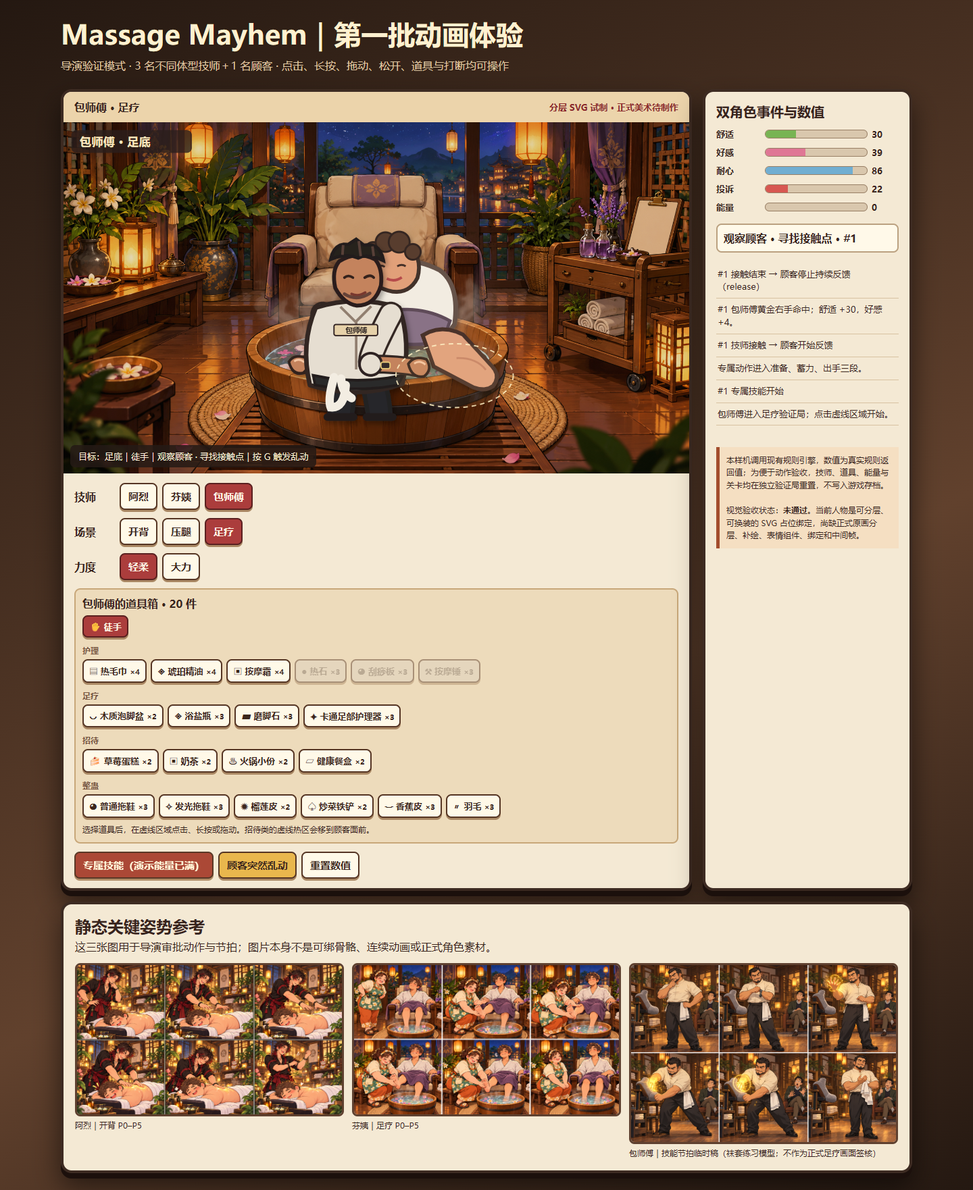
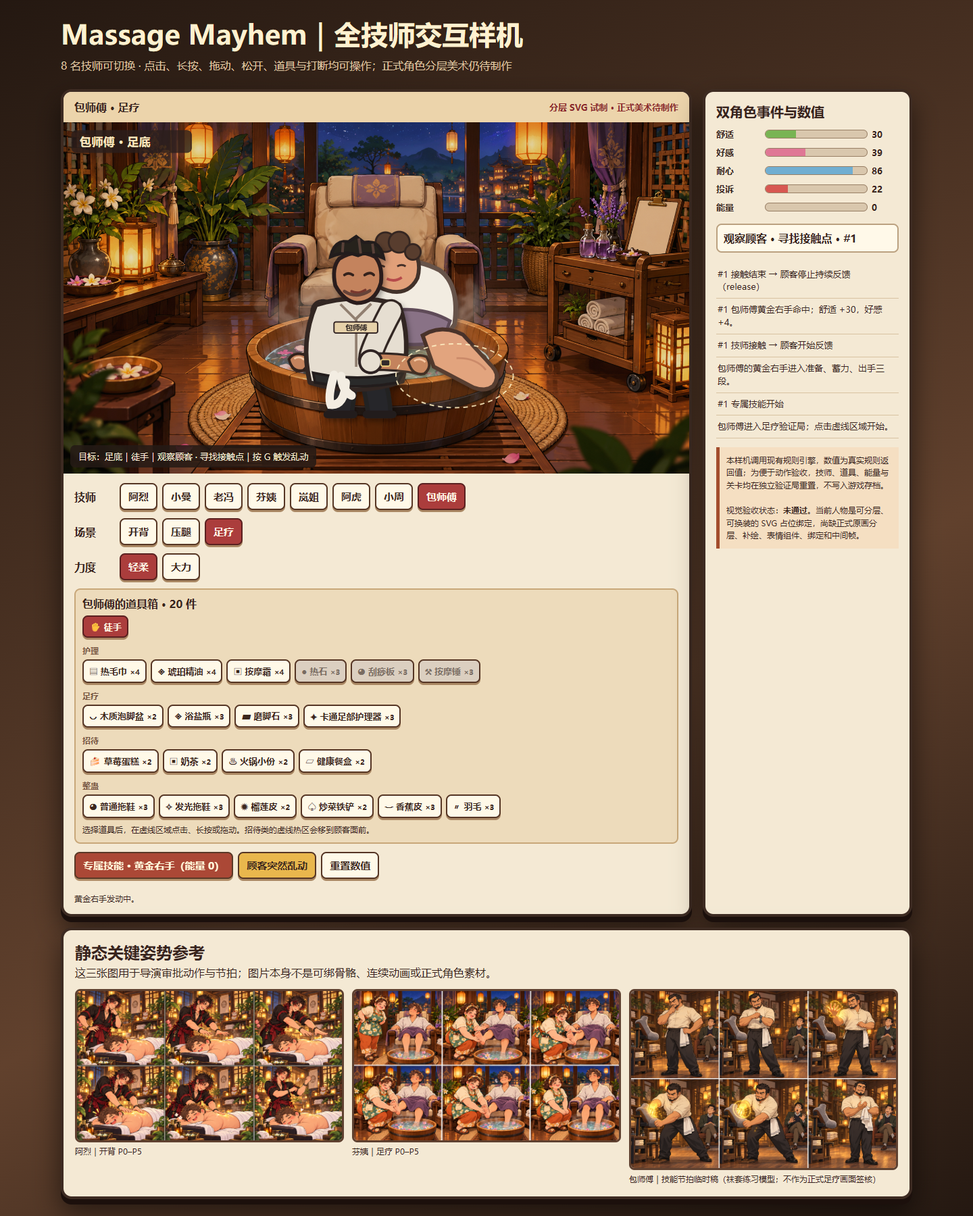
Expose eight technicians and explain blocked animation controls

Changed region(s): [[0.0625, 0.0, 0.9375, 0.9989]]

diff --git a/animation-experience/animation-bundle.js b/animation-experience/animation-bundle.js
@@ -12,7 +12,8 @@ const { itemAvailability, itemTuning, performItem } = __require("animation-exper
 const $ = selector => document.querySelector(selector);
 const stage = $('#stage');
 const visual = new VisualStage(stage);
-const names = { charming_m: '阿烈', aunt: '芬姨', bao_master: '包师傅', back: '开背', legs: '压腿', feet: '足疗' };
+const names = { charming_m: '阿烈', charming_f: '小曼', uncle: '老冯', aunt: '芬姨', gentle: '岚姐', power: '阿虎', joker: '小周', bao_master: '包师傅', back: '开背', legs: '压腿', feet: '足疗' };
+const skills = { charming_m: '飞吻', charming_f: '爱心手势', uncle: '蓄力推拿', aunt: '递美食', gentle: '精准按压', power: '重压足疗', joker: '整蛊石化', bao_master: '黄金右手' };
 const phases = { approach: '入场 · 步态与转身', observe: '观察顾客 · 寻找接触点', prepare: '准备 · 转身和重心调整', precontact: '接触前 · 手掌悬停', contact: '接触 · 掌心落点', hold: '持续接触 · 跟随玩家', release: '松手 · 顾客停止持续反馈', recover: '回位 · 重找落点', toolTake: '拿取道具 · 握持切换', toolReturn: '工具归位', interrupted: '打断 · 躲避并重新观察', signaturePrep: '专属技能 · 准备', signatureCharge: '专属技能 · 蓄力', signaturePose: '专属技能 · 出手' };
 const labels = { comfort: '舒适', affection: '好感', patience: '耐心', complaint: '投诉', energy: '能量' };
 const levels = [{ level: 1, comfortGoal: 95, patience: 90, maxActions: 50, servicePool: ['gentle', 'strong', 'food', 'prank'], scenePool: ['back', 'legs', 'feet'] }];
@@ -25,6 +26,7 @@ function log(message) {
   $('#log').prepend(li);
   while ($('#log').children.length > 24) $('#log').lastElementChild.remove();
 }
+function feedback(message) { $('#feedback').textContent = message; }
 function point(event) {
   const rect = stage.getBoundingClientRect();
   return { x: (event.clientX - rect.left) * 960 / rect.width, y: (event.clientY - rect.top) * 540 / rect.height };
@@ -39,7 +41,7 @@ function renderInventory() {
   $('#inventory').innerHTML = `<div class="propgrid"><button data-id="hand" class="active">✋ 徒手</button></div>` + groups.map(group => {
     const groupItems = owned.filter(item => item.group === group);
     if (!groupItems.length) return '';
-    return `<div class="propgroup"><strong>${group}</strong><div class="propgrid">${groupItems.map(item => { const available = itemAvailability(battle, item.id, 999); const remaining = Math.max(0, itemTuning[item.id].stock - (battle.itemUses?.[item.id] || 0)); return `<button data-id="${item.id}" title="${item.gesture}｜${item.scenes.map(key => names[key]).join('、')}｜${available.reason || `本局剩余 ${remaining} 次`}" class="${item.scenes.includes(scene) ? '' : 'offscene'}" ${available.ok ? '' : 'disabled'}>${item.icon} ${item.name} <small>×${remaining}</small></button>`; }).join('')}</div></div>`;
+    return `<div class="propgroup"><strong>${group}</strong><div class="propgrid">${groupItems.map(item => { const available = itemAvailability(battle, item.id, 999); const remaining = Math.max(0, itemTuning[item.id].stock - (battle.itemUses?.[item.id] || 0)); return `<button data-id="${item.id}" title="${item.gesture}｜${item.scenes.map(key => names[key]).join('、')}｜${available.reason || `本局剩余 ${remaining} 次`}" class="${item.scenes.includes(scene) ? '' : 'offscene'}">${item.icon} ${item.name} <small>×${remaining}</small></button>`; }).join('')}</div></div>`;
   }).join('');
   selectGroup('tool', tool);
   $('#toolTip').textContent = tool === 'hand' ? '选择道具后，在虚线区域点击、长按或拖动。招待类的虚线热区会移到顾客面前。' : `${itemById[tool].name}：${itemById[tool].gesture}；适用${itemById[tool].scenes.map(key => names[key]).join('、')}。`;
@@ -52,7 +54,7 @@ function updateMetrics() {
     el.querySelector('output').textContent = battle[key];
     el.querySelector('label').textContent = label;
   }
-  $('#signature').disabled = director.phase !== 'observe' || battle.status !== 'playing' || director.toolHeld || (cast === 'bao_master' && scene !== 'feet');
+  $('#signature').textContent = `专属技能 · ${skills[cast]}（能量 ${battle.energy}）`;
 }
 function reset(clearLog = false) {
   if (pointerId !== null && stage.hasPointerCapture(pointerId)) stage.releasePointerCapture(pointerId);
@@ -68,10 +70,10 @@ function reset(clearLog = false) {
   tool = 'hand'; selectGroup('tool', tool);
   visual.setCast(cast, scene);
   renderInventory();
-  director.startApproach();
   $('#castTitle').textContent = `${names[cast]} · ${names[scene]}`;
   if (clearLog) $('#log').replaceChildren();
   log(`${names[cast]}进入${names[scene]}验证局；点击虚线区域开始。`);
+  feedback(`${names[cast]}已就位。点击画面虚线热区；道具会先拿取，再点击热区使用。`);
   updateMetrics();
 }
 function handleEvent(event) {
@@ -94,9 +96,9 @@ function handleEvent(event) {
     case 'skillImpact': {
       if (battle.status !== 'playing') break;
       const before = battle;
-      if (cast === 'aunt') battle = performService(battle, levels, 'food', 90, 999);
+      if (cast === 'aunt') battle = { ...performService(battle, levels, 'food', 90, 999), energy: 0 };
       else battle = useSkill(battle);
-      log(`#${event.interactionId} ${cast === 'aunt' ? '芬姨递美食' : cast === 'charming_m' ? '阿烈飞吻' : '包师傅黄金右手'}命中；舒适 ${battle.comfort - before.comfort >= 0 ? '+' : ''}${battle.comfort - before.comfort}，好感 ${battle.affection - before.affection >= 0 ? '+' : ''}${battle.affection - before.affection}。`);
+      log(`#${event.interactionId} ${names[cast]}${skills[cast]}命中；舒适 ${battle.comfort - before.comfort >= 0 ? '+' : ''}${battle.comfort - before.comfort}，好感 ${battle.affection - before.affection >= 0 ? '+' : ''}${battle.affection - before.affection}。`);
       updateMetrics();
       break;
     }
@@ -108,23 +110,37 @@ function handleEvent(event) {
 $('#metrics').innerHTML = Object.entries(labels).map(([key,label]) => `<div class="metric" data-key="${key}"><label>${label}</label><div class="track"><div class="fill"></div></div><output>0</output></div>`).join('');
 document.querySelectorAll('[data-group="cast"] button').forEach(button => button.addEventListener('click', () => { cast = button.dataset.id; selectGroup('cast', cast); reset(true); }));
 document.querySelectorAll('[data-group="scene"] button').forEach(button => button.addEventListener('click', () => { scene = button.dataset.id; selectGroup('scene', scene); reset(true); }));
-document.querySelectorAll('[data-group="service"] button').forEach(button => button.addEventListener('click', () => { if (director.setService(button.dataset.id)) { service = button.dataset.id; selectGroup('service', service); } }));
+document.querySelectorAll('[data-group="service"] button').forEach(button => button.addEventListener('click', () => { if (director.setService(button.dataset.id)) { service = button.dataset.id; selectGroup('service', service); feedback(`力度已切换为${button.textContent}；在虚线热区操作。`); } else feedback('动作进行中，请等技师回位后再切换力度。'); }));
 $('#inventory').addEventListener('click', event => {
   const button = event.target.closest('button[data-id]');
-  if (!button || button.disabled) return;
-  if (button.dataset.id !== 'hand' && !itemAvailability(battle, button.dataset.id, 999).ok) return;
+  if (!button) return;
+  if (director.phase !== 'observe') { feedback('技师正在动作中，请等回位后再选择道具。'); return; }
+  if (button.dataset.id !== 'hand') {
+    const availability = itemAvailability(battle, button.dataset.id, 999);
+    if (!availability.ok) { const item = itemById[button.dataset.id]; feedback(`${item.name}暂不可用：${availability.reason}${availability.reason === '此场景不可用' ? `；请切换到${item.scenes.map(key => names[key]).join('或')}` : ''}。`); return; }
+  }
   if (director.selectTool(button.dataset.id)) {
     tool = director.tool; selectGroup('tool', tool);
     $('#toolTip').textContent = director.phase === 'toolReturn' ? `${itemById[tool].name}正在归位。` : tool === 'hand' ? '徒手模式。' : `${itemById[tool].name}：${itemById[tool].gesture}；按提示虚线区域操作。`;
-  }
+    feedback(tool === 'hand' ? '已选择徒手。' : `${itemById[tool].name}拿取中，稍后点击虚线热区使用。`);
+  } else feedback('当前不能切换道具，请等待动作结束。');
 });
-$('#signature').addEventListener('click', () => { if (director.startSignature()) log('专属动作进入准备、蓄力、出手三段。'); });
-$('#jolt').addEventListener('click', () => director.interrupt('guest-jolt'));
+$('#signature').addEventListener('click', () => {
+  if (battle.status !== 'playing') return feedback('本局已结束，请点击“重置数值”。');
+  if (director.phase !== 'observe') return feedback('技师正在动作中，请等回位后使用技能。');
+  if (director.toolHeld) return feedback('请先点击“徒手”，放回道具后再使用技能。');
+  if (cast === 'bao_master' && scene !== 'feet') return feedback('黄金右手只能在足疗场景使用。');
+  if (battle.energy < 100) return feedback(`能量不足：还需 ${100 - battle.energy} 点。`);
+  if (director.startSignature()) { log(`${names[cast]}的${skills[cast]}进入准备、蓄力、出手三段。`); feedback(`${skills[cast]}发动中。`); }
+});
+$('#jolt').addEventListener('click', () => { if (director.interrupt('guest-jolt')) feedback('顾客突然乱动：技师闪避并重新观察。'); else feedback('技师已经在处理乱动，请稍候。'); });
 $('#reset').addEventListener('click', () => reset(true));
 document.addEventListener('keydown', event => { if (event.key.toLowerCase() === 'g') director.interrupt('guest-jolt'); });
 stage.addEventListener('pointerdown', event => {
-  if (pointerId !== null || battle.status !== 'playing') return;
-  if (director.pointerDown(point(event))) { pointerId = event.pointerId; stage.setPointerCapture(pointerId); event.preventDefault(); }
+  if (pointerId !== null) return;
+  if (battle.status !== 'playing') return feedback('本局已结束，请点击“重置数值”。');
+  if (director.pointerDown(point(event))) { pointerId = event.pointerId; stage.setPointerCapture(pointerId); feedback('已锁定接触点，技师正在准备动作。'); event.preventDefault(); }
+  else feedback(director.phase === 'observe' ? '请点击画面中的虚线热区；招待道具的热区在顾客面前。' : '动作尚未结束，请等技师回位后操作。');
 });
 stage.addEventListener('pointermove', event => { if (event.pointerId === pointerId) director.pointerMove(point(event), event.pressure || .5); });
 stage.addEventListener('pointerup', event => { if (event.pointerId === pointerId) { director.pointerUp(); pointerId = null; event.preventDefault(); } });
@@ -708,7 +724,7 @@ class InteractionDirector {
   }
   pointerCancel() { if (this.phase !== 'observe') this.interrupt('pointer-cancel'); }
   interrupt(reason = 'guest-jolt') {
-    if (this.phase === 'observe' || this.phase === 'interrupted' || this.phase === 'recover') return false;
+    if (this.phase === 'interrupted' || this.phase === 'recover') return false;
     const hadContact = this.contactActive, duration = this.holdTime;
     this.pointerActive = false; this.releaseRequested = false;
     if (hadContact) { this.contactActive = false; this.emit('contactEnd', { reason }); }
@@ -840,7 +856,12 @@ const items = [
 const itemById = Object.fromEntries(items.map(item => [item.id, item]));
 const castInventory = {
   charming_m: ['towel','oil','cake'],
+  charming_f: ['towel','oil','massage_cream','cake','milk_tea','feather'],
+  uncle: ['towel','oil','hot_stone','guasha','hammer','scrub'],
   aunt: ['towel','oil','cake','basin','milk_tea'],
+  gentle: ['towel','oil','massage_cream','hot_stone','guasha','footcare'],
+  power: ['towel','oil','hammer','basin','scrub','footcare'],
+  joker: ['towel','oil','slipper','glow_slipper','banana','feather','cake'],
   bao_master: items.map(item => item.id)
 };
 const playableFor = (cast, scene) => items.filter(item => castInventory[cast]?.includes(item.id) && item.scenes.includes(scene));
@@ -869,7 +890,12 @@ const art = {
 };
 const specs = {
   charming_m: { name: '阿烈', shirt: '#302125', accent: '#9d2737', skin: '#d79572', hair: '#291b1d', width: 42, head: 34, upper: 68, lower: 63, hand: 13, rest: 'cocky' },
+  charming_f: { name: '小曼', shirt: '#30232e', accent: '#df7193', skin: '#e4a48b', hair: '#37202d', width: 37, head: 31, upper: 60, lower: 57, hand: 12, rest: 'graceful' },
+  uncle: { name: '老冯', shirt: '#ded6c7', accent: '#354965', skin: '#ba8267', hair: '#62646b', width: 62, head: 37, upper: 79, lower: 71, hand: 17, rest: 'steady' },
   aunt: { name: '芬姨', shirt: '#e2b187', accent: '#497f56', skin: '#dea47f', hair: '#493025', width: 65, head: 37, upper: 62, lower: 56, hand: 14, rest: 'warm' },
+  gentle: { name: '岚姐', shirt: '#29242b', accent: '#903947', skin: '#dda386', hair: '#252329', width: 38, head: 30, upper: 66, lower: 59, hand: 12, rest: 'precise' },
+  power: { name: '阿虎', shirt: '#345379', accent: '#e79b49', skin: '#c58a69', hair: '#272528', width: 70, head: 34, upper: 83, lower: 75, hand: 18, rest: 'powerful' },
+  joker: { name: '小周', shirt: '#acc1ce', accent: '#d1b38c', skin: '#e0ad90', hair: '#4a3530', width: 43, head: 35, upper: 58, lower: 55, hand: 12, rest: 'nervous' },
   bao_master: { name: '包师傅', shirt: '#e6ded1', accent: '#bb913f', skin: '#c4835d', hair: '#27231f', width: 67, head: 38, upper: 83, lower: 76, hand: 18, rest: 'heavy' }
 };
 const baseX = { back: 446, legs: 458, feet: 450 };
@@ -880,12 +906,21 @@ const p = (n) => Math.round(n * 10) / 10;
 
 function hairMarkup(id) {
   if (id === 'charming_m') return `<path d="M-37 -215 Q-52 -243 -32 -256 L-39 -270 L-21 -264 Q-8 -284 2 -271 L13 -282 L16 -267 Q35 -275 42 -253 L51 -247 L38 -236 Q43 -220 31 -217 Q11 -244 -4 -234 Q-22 -231 -37 -215Z" fill="#24191c" stroke="#211619" stroke-width="5"/><path d="M-32 -242 Q-18 -257 -11 -244 M5 -263 Q14 -249 23 -251 M34 -243 L39 -224" stroke="#8b2938" stroke-width="5" fill="none" stroke-linecap="round"/>`;
+  if (id === 'charming_f') return `<path d="M-35 -225 Q-44 -260 -12 -268 Q10 -277 37 -251 L39 -218 Q13 -244 -32 -219Z" fill="#352027" stroke="#211619" stroke-width="5"/><path d="M27 -260 Q70 -282 57 -231 Q51 -207 62 -189" fill="none" stroke="#352027" stroke-width="19" stroke-linecap="round"/><path d="M31 -264 L46 -271 L45 -255Z" fill="#df7193"/>`;
+  if (id === 'uncle') return `<path d="M-35 -244 Q0 -265 37 -244 L37 -227 Q0 -239 -35 -227Z" fill="#62646b" stroke="#34353a" stroke-width="5"/><path d="M-24 -216 L-8 -219 M10 -219 L28 -215" stroke="#34353a" stroke-width="7"/>`;
   if (id === 'aunt') return `<g fill="#493025" stroke="#30211f" stroke-width="4"><circle cx="-30" cy="-240" r="15"/><circle cx="-14" cy="-259" r="16"/><circle cx="5" cy="-263" r="16"/><circle cx="26" cy="-249" r="17"/><circle cx="35" cy="-229" r="14"/></g><path d="M-29 -262 Q2 -279 31 -258" stroke="#e9b582" stroke-width="8" fill="none"/>`;
+  if (id === 'gentle') return `<path d="M-35 -240 Q-25 -267 14 -267 Q42 -256 36 -219 L24 -225 Q1 -246 -31 -216Z" fill="#252329" stroke="#1d1b1e" stroke-width="5"/><path d="M-25 -210 H-4 M7 -210 H28 M-4 -210 H7" stroke="#b8925d" stroke-width="3" fill="none"/>`;
+  if (id === 'power') return `<path d="M-36 -246 Q-2 -264 35 -246 L34 -226 Q0 -236 -35 -225Z" fill="#252429" stroke="#1b1b1f" stroke-width="6"/>`;
+  if (id === 'joker') return `<path d="M-39 -242 Q-32 -277 3 -271 Q38 -274 41 -243 L37 -217 Q5 -240 -36 -217Z" fill="#49362f" stroke="#2d2421" stroke-width="5"/><path d="M-35 -238 Q0 -224 37 -239" fill="none" stroke="#382b27" stroke-width="5"/>`;
   return `<path d="M-40 -242 Q-35 -268 -13 -265 L-1 -273 L11 -264 Q36 -268 41 -240 Q17 -252 2 -244 Q-18 -252 -40 -242Z" fill="#26231f" stroke="#211b1b" stroke-width="5"/><path d="M-21 -264 L-22 -249 M3 -270 L6 -247 M24 -262 L26 -247" stroke="#594037" stroke-width="4"/>`;
 }
 function costumeMarkup(id, s) {
   if (id === 'charming_m') return `<path d="M-${s.width} -167 Q-14 -188 0 -177 Q21 -190 ${s.width} -166 L${s.width + 9} -53 Q0 -35 -${s.width + 5} -53Z" fill="${s.shirt}" stroke="#261b1d" stroke-width="7"/><path d="M-21 -173 L2 -113 L20 -172 L-1 -152Z" fill="#b87861" stroke="#271d20" stroke-width="4"/><path d="M-28 -169 L-1 -124 L-19 -136 L-45 -166Z M27 -168 L4 -123 L24 -137 L43 -164Z" fill="${s.accent}" stroke="#1c171b" stroke-width="3"/><path d="M-51 -87 Q0 -72 52 -86 L44 -66 Q0 -57 -46 -67Z" fill="#742a34" stroke="#24191d" stroke-width="4"/><path d="M-31 -81 Q-48 -50 -61 -42 M-27 -79 Q-16 -53 -9 -44" stroke="#a83544" stroke-width="9" stroke-linecap="round"/>`;
+  if (id === 'charming_f' || id === 'gentle') return `<path d="M-${s.width + 5} -169 Q0 -191 ${s.width + 5} -169 L${s.width + 9} -53 Q0 -37 -${s.width + 9} -53Z" fill="${s.shirt}" stroke="#261d22" stroke-width="7"/><path d="M-26 -169 L0 -120 L24 -170 M-44 -82 Q0 -68 45 -82" fill="none" stroke="${s.accent}" stroke-width="9"/><path d="M0 -120 L0 -56" stroke="${s.accent}" stroke-width="5"/>`;
+  if (id === 'uncle') return `<path d="M-62 -171 Q0 -186 62 -171 L72 -53 Q0 -31 -72 -53Z" fill="${s.shirt}" stroke="#302723" stroke-width="7"/><path d="M-45 -169 L-38 -60 M42 -169 L36 -60" fill="none" stroke="#708096" stroke-width="12"/><path d="M-52 -104 Q0 -88 54 -101" fill="none" stroke="${s.accent}" stroke-width="10"/><path d="M-62 -169 L-74 -123" stroke="#f0e5d5" stroke-width="13"/>`;
   if (id === 'aunt') return `<path d="M-59 -167 Q0 -185 61 -165 Q79 -116 66 -52 Q0 -28 -68 -51 Q-79 -115 -59 -167Z" fill="${s.shirt}" stroke="#2e2220" stroke-width="7"/><path d="M-41 -158 Q-52 -120 -50 -54 Q0 -26 54 -57 Q54 -122 39 -159Z" fill="#4f8658" stroke="#2d3830" stroke-width="5"/><path d="M-40 -156 Q0 -130 40 -155 M-49 -90 Q0 -80 52 -88" stroke="#f0d6aa" stroke-width="7" fill="none"/><g fill="#f0ddad"><circle cx="-23" cy="-111" r="5"/><circle cx="8" cy="-95" r="6"/><circle cx="27" cy="-124" r="5"/><circle cx="-5" cy="-65" r="5"/></g><g fill="#edb36e"><circle cx="-23" cy="-111" r="2"/><circle cx="8" cy="-95" r="2"/><circle cx="27" cy="-124" r="2"/></g>`;
+  if (id === 'power') return `<path d="M-73 -167 Q0 -194 73 -167 L80 -53 Q0 -29 -80 -53Z" fill="${s.shirt}" stroke="#222b36" stroke-width="8"/><path d="M-51 -169 L-43 -57 M53 -169 L44 -57" stroke="${s.accent}" stroke-width="13"/><path d="M-75 -76 Q0 -58 76 -76" stroke="#243750" stroke-width="13"/>`;
+  if (id === 'joker') return `<path d="M-48 -169 Q0 -185 48 -169 L58 -43 Q0 -24 -58 -43Z" fill="${s.shirt}" stroke="#394755" stroke-width="7"/><path d="M-53 -159 Q0 -142 53 -159 M-29 -106 L-5 -106 L-5 -79 L-29 -79Z" fill="none" stroke="${s.accent}" stroke-width="6"/><path d="M-27 -102 L-8 -93" stroke="#765546" stroke-width="3"/>`;
   return `<path d="M-63 -168 Q0 -188 65 -168 Q84 -116 70 -51 Q0 -26 -72 -49 Q-87 -112 -63 -168Z" fill="${s.shirt}" stroke="#302621" stroke-width="7"/><path d="M-25 -169 L-2 -146 L22 -170 M-1 -146 L-1 -73" fill="none" stroke="#917f70" stroke-width="4"/><path d="M-67 -64 Q0 -49 71 -64 L63 -49 Q0 -37 -64 -49Z" fill="#2b2929" stroke="#221e1d" stroke-width="4"/><path d="M-35 -61 Q-45 -27 -40 -15 Q-19 -13 -17 -49 M-24 -59 Q-23 -37 -8 -29" stroke="#f3ede2" stroke-width="13" fill="none" stroke-linecap="round"/>`;
 }
 function actorMarkup(id) {

diff --git a/animation-experience/main.js b/animation-experience/main.js
@@ -7,7 +7,8 @@ import { itemAvailability, itemTuning, performItem } from './item-rules.js';
 const $ = selector => document.querySelector(selector);
 const stage = $('#stage');
 const visual = new VisualStage(stage);
-const names = { charming_m: '阿烈', aunt: '芬姨', bao_master: '包师傅', back: '开背', legs: '压腿', feet: '足疗' };
+const names = { charming_m: '阿烈', charming_f: '小曼', uncle: '老冯', aunt: '芬姨', gentle: '岚姐', power: '阿虎', joker: '小周', bao_master: '包师傅', back: '开背', legs: '压腿', feet: '足疗' };
+const skills = { charming_m: '飞吻', charming_f: '爱心手势', uncle: '蓄力推拿', aunt: '递美食', gentle: '精准按压', power: '重压足疗', joker: '整蛊石化', bao_master: '黄金右手' };
 const phases = { approach: '入场 · 步态与转身', observe: '观察顾客 · 寻找接触点', prepare: '准备 · 转身和重心调整', precontact: '接触前 · 手掌悬停', contact: '接触 · 掌心落点', hold: '持续接触 · 跟随玩家', release: '松手 · 顾客停止持续反馈', recover: '回位 · 重找落点', toolTake: '拿取道具 · 握持切换', toolReturn: '工具归位', interrupted: '打断 · 躲避并重新观察', signaturePrep: '专属技能 · 准备', signatureCharge: '专属技能 · 蓄力', signaturePose: '专属技能 · 出手' };
 const labels = { comfort: '舒适', affection: '好感', patience: '耐心', complaint: '投诉', energy: '能量' };
 const levels = [{ level: 1, comfortGoal: 95, patience: 90, maxActions: 50, servicePool: ['gentle', 'strong', 'food', 'prank'], scenePool: ['back', 'legs', 'feet'] }];
@@ -20,6 +21,7 @@ function log(message) {
   $('#log').prepend(li);
   while ($('#log').children.length > 24) $('#log').lastElementChild.remove();
 }
+function feedback(message) { $('#feedback').textContent = message; }
 function point(event) {
   const rect = stage.getBoundingClientRect();
   return { x: (event.clientX - rect.left) * 960 / rect.width, y: (event.clientY - rect.top) * 540 / rect.height };
@@ -34,7 +36,7 @@ function renderInventory() {
   $('#inventory').innerHTML = `<div class="propgrid"><button data-id="hand" class="active">✋ 徒手</button></div>` + groups.map(group => {
     const groupItems = owned.filter(item => item.group === group);
     if (!groupItems.length) return '';
-    return `<div class="propgroup"><strong>${group}</strong><div class="propgrid">${groupItems.map(item => { const available = itemAvailability(battle, item.id, 999); const remaining = Math.max(0, itemTuning[item.id].stock - (battle.itemUses?.[item.id] || 0)); return `<button data-id="${item.id}" title="${item.gesture}｜${item.scenes.map(key => names[key]).join('、')}｜${available.reason || `本局剩余 ${remaining} 次`}" class="${item.scenes.includes(scene) ? '' : 'offscene'}" ${available.ok ? '' : 'disabled'}>${item.icon} ${item.name} <small>×${remaining}</small></button>`; }).join('')}</div></div>`;
+    return `<div class="propgroup"><strong>${group}</strong><div class="propgrid">${groupItems.map(item => { const available = itemAvailability(battle, item.id, 999); const remaining = Math.max(0, itemTuning[item.id].stock - (battle.itemUses?.[item.id] || 0)); return `<button data-id="${item.id}" title="${item.gesture}｜${item.scenes.map(key => names[key]).join('、')}｜${available.reason || `本局剩余 ${remaining} 次`}" class="${item.scenes.includes(scene) ? '' : 'offscene'}">${item.icon} ${item.name} <small>×${remaining}</small></button>`; }).join('')}</div></div>`;
   }).join('');
   selectGroup('tool', tool);
   $('#toolTip').textContent = tool === 'hand' ? '选择道具后，在虚线区域点击、长按或拖动。招待类的虚线热区会移到顾客面前。' : `${itemById[tool].name}：${itemById[tool].gesture}；适用${itemById[tool].scenes.map(key => names[key]).join('、')}。`;
@@ -47,7 +49,7 @@ function updateMetrics() {
     el.querySelector('output').textContent = battle[key];
     el.querySelector('label').textContent = label;
   }
-  $('#signature').disabled = director.phase !== 'observe' || battle.status !== 'playing' || director.toolHeld || (cast === 'bao_master' && scene !== 'feet');
+  $('#signature').textContent = `专属技能 · ${skills[cast]}（能量 ${battle.energy}）`;
 }
 function reset(clearLog = false) {
   if (pointerId !== null && stage.hasPointerCapture(pointerId)) stage.releasePointerCapture(pointerId);
@@ -63,10 +65,10 @@ function reset(clearLog = false) {
   tool = 'hand'; selectGroup('tool', tool);
   visual.setCast(cast, scene);
   renderInventory();
-  director.startApproach();
   $('#castTitle').textContent = `${names[cast]} · ${names[scene]}`;
   if (clearLog) $('#log').replaceChildren();
   log(`${names[cast]}进入${names[scene]}验证局；点击虚线区域开始。`);
+  feedback(`${names[cast]}已就位。点击画面虚线热区；道具会先拿取，再点击热区使用。`);
   updateMetrics();
 }
 function handleEvent(event) {
@@ -89,9 +91,9 @@ function handleEvent(event) {
     case 'skillImpact': {
       if (battle.status !== 'playing') break;
       const before = battle;
-      if (cast === 'aunt') battle = performService(battle, levels, 'food', 90, 999);
+      if (cast === 'aunt') battle = { ...performService(battle, levels, 'food', 90, 999), energy: 0 };
       else battle = useSkill(battle);
-      log(`#${event.interactionId} ${cast === 'aunt' ? '芬姨递美食' : cast === 'charming_m' ? '阿烈飞吻' : '包师傅黄金右手'}命中；舒适 ${battle.comfort - before.comfort >= 0 ? '+' : ''}${battle.comfort - before.comfort}，好感 ${battle.affection - before.affection >= 0 ? '+' : ''}${battle.affection - before.affection}。`);
+      log(`#${event.interactionId} ${names[cast]}${skills[cast]}命中；舒适 ${battle.comfort - before.comfort >= 0 ? '+' : ''}${battle.comfort - before.comfort}，好感 ${battle.affection - before.affection >= 0 ? '+' : ''}${battle.affection - before.affection}。`);
       updateMetrics();
       break;
     }
@@ -103,23 +105,37 @@ function handleEvent(event) {
 $('#metrics').innerHTML = Object.entries(labels).map(([key,label]) => `<div class="metric" data-key="${key}"><label>${label}</label><div class="track"><div class="fill"></div></div><output>0</output></div>`).join('');
 document.querySelectorAll('[data-group="cast"] button').forEach(button => button.addEventListener('click', () => { cast = button.dataset.id; selectGroup('cast', cast); reset(true); }));
 document.querySelectorAll('[data-group="scene"] button').forEach(button => button.addEventListener('click', () => { scene = button.dataset.id; selectGroup('scene', scene); reset(true); }));
-document.querySelectorAll('[data-group="service"] button').forEach(button => button.addEventListener('click', () => { if (director.setService(button.dataset.id)) { service = button.dataset.id; selectGroup('service', service); } }));
+document.querySelectorAll('[data-group="service"] button').forEach(button => button.addEventListener('click', () => { if (director.setService(button.dataset.id)) { service = button.dataset.id; selectGroup('service', service); feedback(`力度已切换为${button.textContent}；在虚线热区操作。`); } else feedback('动作进行中，请等技师回位后再切换力度。'); }));
 $('#inventory').addEventListener('click', event => {
   const button = event.target.closest('button[data-id]');
-  if (!button || button.disabled) return;
-  if (button.dataset.id !== 'hand' && !itemAvailability(battle, button.dataset.id, 999).ok) return;
+  if (!button) return;
+  if (director.phase !== 'observe') { feedback('技师正在动作中，请等回位后再选择道具。'); return; }
+  if (button.dataset.id !== 'hand') {
+    const availability = itemAvailability(battle, button.dataset.id, 999);
+    if (!availability.ok) { const item = itemById[button.dataset.id]; feedback(`${item.name}暂不可用：${availability.reason}${availability.reason === '此场景不可用' ? `；请切换到${item.scenes.map(key => names[key]).join('或')}` : ''}。`); return; }
+  }
   if (director.selectTool(button.dataset.id)) {
     tool = director.tool; selectGroup('tool', tool);
     $('#toolTip').textContent = director.phase === 'toolReturn' ? `${itemById[tool].name}正在归位。` : tool === 'hand' ? '徒手模式。' : `${itemById[tool].name}：${itemById[tool].gesture}；按提示虚线区域操作。`;
-  }
+    feedback(tool === 'hand' ? '已选择徒手。' : `${itemById[tool].name}拿取中，稍后点击虚线热区使用。`);
+  } else feedback('当前不能切换道具，请等待动作结束。');
 });
-$('#signature').addEventListener('click', () => { if (director.startSignature()) log('专属动作进入准备、蓄力、出手三段。'); });
-$('#jolt').addEventListener('click', () => director.interrupt('guest-jolt'));
+$('#signature').addEventListener('click', () => {
+  if (battle.status !== 'playing') return feedback('本局已结束，请点击“重置数值”。');
+  if (director.phase !== 'observe') return feedback('技师正在动作中，请等回位后使用技能。');
+  if (director.toolHeld) return feedback('请先点击“徒手”，放回道具后再使用技能。');
+  if (cast === 'bao_master' && scene !== 'feet') return feedback('黄金右手只能在足疗场景使用。');
+  if (battle.energy < 100) return feedback(`能量不足：还需 ${100 - battle.energy} 点。`);
+  if (director.startSignature()) { log(`${names[cast]}的${skills[cast]}进入准备、蓄力、出手三段。`); feedback(`${skills[cast]}发动中。`); }
+});
+$('#jolt').addEventListener('click', () => { if (director.interrupt('guest-jolt')) feedback('顾客突然乱动：技师闪避并重新观察。'); else feedback('技师已经在处理乱动，请稍候。'); });
 $('#reset').addEventListener('click', () => reset(true));
 document.addEventListener('keydown', event => { if (event.key.toLowerCase() === 'g') director.interrupt('guest-jolt'); });
 stage.addEventListener('pointerdown', event => {
-  if (pointerId !== null || battle.status !== 'playing') return;
-  if (director.pointerDown(point(event))) { pointerId = event.pointerId; stage.setPointerCapture(pointerId); event.preventDefault(); }
+  if (pointerId !== null) return;
+  if (battle.status !== 'playing') return feedback('本局已结束，请点击“重置数值”。');
+  if (director.pointerDown(point(event))) { pointerId = event.pointerId; stage.setPointerCapture(pointerId); feedback('已锁定接触点，技师正在准备动作。'); event.preventDefault(); }
+  else feedback(director.phase === 'observe' ? '请点击画面中的虚线热区；招待道具的热区在顾客面前。' : '动作尚未结束，请等技师回位后操作。');
 });
 stage.addEventListener('pointermove', event => { if (event.pointerId === pointerId) director.pointerMove(point(event), event.pressure || .5); });
 stage.addEventListener('pointerup', event => { if (event.pointerId === pointerId) { director.pointerUp(); pointerId = null; event.preventDefault(); } });

diff --git a/animation-experience/visuals.js b/animation-experience/visuals.js
@@ -10,7 +10,12 @@ const art = {
 };
 const specs = {
   charming_m: { name: '阿烈', shirt: '#302125', accent: '#9d2737', skin: '#d79572', hair: '#291b1d', width: 42, head: 34, upper: 68, lower: 63, hand: 13, rest: 'cocky' },
+  charming_f: { name: '小曼', shirt: '#30232e', accent: '#df7193', skin: '#e4a48b', hair: '#37202d', width: 37, head: 31, upper: 60, lower: 57, hand: 12, rest: 'graceful' },
+  uncle: { name: '老冯', shirt: '#ded6c7', accent: '#354965', skin: '#ba8267', hair: '#62646b', width: 62, head: 37, upper: 79, lower: 71, hand: 17, rest: 'steady' },
   aunt: { name: '芬姨', shirt: '#e2b187', accent: '#497f56', skin: '#dea47f', hair: '#493025', width: 65, head: 37, upper: 62, lower: 56, hand: 14, rest: 'warm' },
+  gentle: { name: '岚姐', shirt: '#29242b', accent: '#903947', skin: '#dda386', hair: '#252329', width: 38, head: 30, upper: 66, lower: 59, hand: 12, rest: 'precise' },
+  power: { name: '阿虎', shirt: '#345379', accent: '#e79b49', skin: '#c58a69', hair: '#272528', width: 70, head: 34, upper: 83, lower: 75, hand: 18, rest: 'powerful' },
+  joker: { name: '小周', shirt: '#acc1ce', accent: '#d1b38c', skin: '#e0ad90', hair: '#4a3530', width: 43, head: 35, upper: 58, lower: 55, hand: 12, rest: 'nervous' },
   bao_master: { name: '包师傅', shirt: '#e6ded1', accent: '#bb913f', skin: '#c4835d', hair: '#27231f', width: 67, head: 38, upper: 83, lower: 76, hand: 18, rest: 'heavy' }
 };
 const baseX = { back: 446, legs: 458, feet: 450 };
@@ -21,12 +26,21 @@ const p = (n) => Math.round(n * 10) / 10;
 
 function hairMarkup(id) {
   if (id === 'charming_m') return `<path d="M-37 -215 Q-52 -243 -32 -256 L-39 -270 L-21 -264 Q-8 -284 2 -271 L13 -282 L16 -267 Q35 -275 42 -253 L51 -247 L38 -236 Q43 -220 31 -217 Q11 -244 -4 -234 Q-22 -231 -37 -215Z" fill="#24191c" stroke="#211619" stroke-width="5"/><path d="M-32 -242 Q-18 -257 -11 -244 M5 -263 Q14 -249 23 -251 M34 -243 L39 -224" stroke="#8b2938" stroke-width="5" fill="none" stroke-linecap="round"/>`;
+  if (id === 'charming_f') return `<path d="M-35 -225 Q-44 -260 -12 -268 Q10 -277 37 -251 L39 -218 Q13 -244 -32 -219Z" fill="#352027" stroke="#211619" stroke-width="5"/><path d="M27 -260 Q70 -282 57 -231 Q51 -207 62 -189" fill="none" stroke="#352027" stroke-width="19" stroke-linecap="round"/><path d="M31 -264 L46 -271 L45 -255Z" fill="#df7193"/>`;
+  if (id === 'uncle') return `<path d="M-35 -244 Q0 -265 37 -244 L37 -227 Q0 -239 -35 -227Z" fill="#62646b" stroke="#34353a" stroke-width="5"/><path d="M-24 -216 L-8 -219 M10 -219 L28 -215" stroke="#34353a" stroke-width="7"/>`;
   if (id === 'aunt') return `<g fill="#493025" stroke="#30211f" stroke-width="4"><circle cx="-30" cy="-240" r="15"/><circle cx="-14" cy="-259" r="16"/><circle cx="5" cy="-263" r="16"/><circle cx="26" cy="-249" r="17"/><circle cx="35" cy="-229" r="14"/></g><path d="M-29 -262 Q2 -279 31 -258" stroke="#e9b582" stroke-width="8" fill="none"/>`;
+  if (id === 'gentle') return `<path d="M-35 -240 Q-25 -267 14 -267 Q42 -256 36 -219 L24 -225 Q1 -246 -31 -216Z" fill="#252329" stroke="#1d1b1e" stroke-width="5"/><path d="M-25 -210 H-4 M7 -210 H28 M-4 -210 H7" stroke="#b8925d" stroke-width="3" fill="none"/>`;
+  if (id === 'power') return `<path d="M-36 -246 Q-2 -264 35 -246 L34 -226 Q0 -236 -35 -225Z" fill="#252429" stroke="#1b1b1f" stroke-width="6"/>`;
+  if (id === 'joker') return `<path d="M-39 -242 Q-32 -277 3 -271 Q38 -274 41 -243 L37 -217 Q5 -240 -36 -217Z" fill="#49362f" stroke="#2d2421" stroke-width="5"/><path d="M-35 -238 Q0 -224 37 -239" fill="none" stroke="#382b27" stroke-width="5"/>`;
   return `<path d="M-40 -242 Q-35 -268 -13 -265 L-1 -273 L11 -264 Q36 -268 41 -240 Q17 -252 2 -244 Q-18 -252 -40 -242Z" fill="#26231f" stroke="#211b1b" stroke-width="5"/><path d="M-21 -264 L-22 -249 M3 -270 L6 -247 M24 -262 L26 -247" stroke="#594037" stroke-width="4"/>`;
 }
 function costumeMarkup(id, s) {
   if (id === 'charming_m') return `<path d="M-${s.width} -167 Q-14 -188 0 -177 Q21 -190 ${s.width} -166 L${s.width + 9} -53 Q0 -35 -${s.width + 5} -53Z" fill="${s.shirt}" stroke="#261b1d" stroke-width="7"/><path d="M-21 -173 L2 -113 L20 -172 L-1 -152Z" fill="#b87861" stroke="#271d20" stroke-width="4"/><path d="M-28 -169 L-1 -124 L-19 -136 L-45 -166Z M27 -168 L4 -123 L24 -137 L43 -164Z" fill="${s.accent}" stroke="#1c171b" stroke-width="3"/><path d="M-51 -87 Q0 -72 52 -86 L44 -66 Q0 -57 -46 -67Z" fill="#742a34" stroke="#24191d" stroke-width="4"/><path d="M-31 -81 Q-48 -50 -61 -42 M-27 -79 Q-16 -53 -9 -44" stroke="#a83544" stroke-width="9" stroke-linecap="round"/>`;
+  if (id === 'charming_f' || id === 'gentle') return `<path d="M-${s.width + 5} -169 Q0 -191 ${s.width + 5} -169 L${s.width + 9} -53 Q0 -37 -${s.width + 9} -53Z" fill="${s.shirt}" stroke="#261d22" stroke-width="7"/><path d="M-26 -169 L0 -120 L24 -170 M-44 -82 Q0 -68 45 -82" fill="none" stroke="${s.accent}" stroke-width="9"/><path d="M0 -120 L0 -56" stroke="${s.accent}" stroke-width="5"/>`;
+  if (id === 'uncle') return `<path d="M-62 -171 Q0 -186 62 -171 L72 -53 Q0 -31 -72 -53Z" fill="${s.shirt}" stroke="#302723" stroke-width="7"/><path d="M-45 -169 L-38 -60 M42 -169 L36 -60" fill="none" stroke="#708096" stroke-width="12"/><path d="M-52 -104 Q0 -88 54 -101" fill="none" stroke="${s.accent}" stroke-width="10"/><path d="M-62 -169 L-74 -123" stroke="#f0e5d5" stroke-width="13"/>`;
   if (id === 'aunt') return `<path d="M-59 -167 Q0 -185 61 -165 Q79 -116 66 -52 Q0 -28 -68 -51 Q-79 -115 -59 -167Z" fill="${s.shirt}" stroke="#2e2220" stroke-width="7"/><path d="M-41 -158 Q-52 -120 -50 -54 Q0 -26 54 -57 Q54 -122 39 -159Z" fill="#4f8658" stroke="#2d3830" stroke-width="5"/><path d="M-40 -156 Q0 -130 40 -155 M-49 -90 Q0 -80 52 -88" stroke="#f0d6aa" stroke-width="7" fill="none"/><g fill="#f0ddad"><circle cx="-23" cy="-111" r="5"/><circle cx="8" cy="-95" r="6"/><circle cx="27" cy="-124" r="5"/><circle cx="-5" cy="-65" r="5"/></g><g fill="#edb36e"><circle cx="-23" cy="-111" r="2"/><circle cx="8" cy="-95" r="2"/><circle cx="27" cy="-124" r="2"/></g>`;
+  if (id === 'power') return `<path d="M-73 -167 Q0 -194 73 -167 L80 -53 Q0 -29 -80 -53Z" fill="${s.shirt}" stroke="#222b36" stroke-width="8"/><path d="M-51 -169 L-43 -57 M53 -169 L44 -57" stroke="${s.accent}" stroke-width="13"/><path d="M-75 -76 Q0 -58 76 -76" stroke="#243750" stroke-width="13"/>`;
+  if (id === 'joker') return `<path d="M-48 -169 Q0 -185 48 -169 L58 -43 Q0 -24 -58 -43Z" fill="${s.shirt}" stroke="#394755" stroke-width="7"/><path d="M-53 -159 Q0 -142 53 -159 M-29 -106 L-5 -106 L-5 -79 L-29 -79Z" fill="none" stroke="${s.accent}" stroke-width="6"/><path d="M-27 -102 L-8 -93" stroke="#765546" stroke-width="3"/>`;
   return `<path d="M-63 -168 Q0 -188 65 -168 Q84 -116 70 -51 Q0 -26 -72 -49 Q-87 -112 -63 -168Z" fill="${s.shirt}" stroke="#302621" stroke-width="7"/><path d="M-25 -169 L-2 -146 L22 -170 M-1 -146 L-1 -73" fill="none" stroke="#917f70" stroke-width="4"/><path d="M-67 -64 Q0 -49 71 -64 L63 -49 Q0 -37 -64 -49Z" fill="#2b2929" stroke="#221e1d" stroke-width="4"/><path d="M-35 -61 Q-45 -27 -40 -15 Q-19 -13 -17 -49 M-24 -59 Q-23 -37 -8 -29" stroke="#f3ede2" stroke-width="13" fill="none" stroke-linecap="round"/>`;
 }
 function actorMarkup(id) {

diff --git a/animation-experience/index.html b/animation-experience/index.html
@@ -9,15 +9,16 @@
   </style>
 </head>
 <body>
-<header><h1>Massage Mayhem｜第一批动画体验</h1><p class="sub">导演验证模式 · 3 名不同体型技师＋1 名顾客 · 点击、长按、拖动、松开、道具与打断均可操作</p></header>
+<header><h1>Massage Mayhem｜全技师交互样机</h1><p class="sub">8 名技师可切换 · 点击、长按、拖动、松开、道具与打断均可操作；正式角色分层美术仍待制作</p></header>
 <main>
   <section class="card"><div class="stagebar"><span id="castTitle">阿烈 · 开背</span><span class="badge">分层 SVG 试制 · 正式美术待制作</span></div><div class="stagewrap"><svg id="stage" viewBox="0 0 960 540" aria-label="按摩互动场景"></svg><div class="hint" id="hint">在虚线热区点击或按住并拖动；按 G 模拟顾客乱动</div></div>
   <div class="controls">
-    <div class="group" data-group="cast"><b>技师</b><button data-id="charming_m" class="active">阿烈</button><button data-id="aunt">芬姨</button><button data-id="bao_master">包师傅</button></div>
+    <div class="group" data-group="cast"><b>技师</b><button data-id="charming_m" class="active">阿烈</button><button data-id="charming_f">小曼</button><button data-id="uncle">老冯</button><button data-id="aunt">芬姨</button><button data-id="gentle">岚姐</button><button data-id="power">阿虎</button><button data-id="joker">小周</button><button data-id="bao_master">包师傅</button></div>
     <div class="group" data-group="scene"><b>场景</b><button data-id="back" class="active">开背</button><button data-id="legs">压腿</button><button data-id="feet">足疗</button></div>
     <div class="group" data-group="service"><b>力度</b><button data-id="gentle" class="active">轻柔</button><button data-id="strong">大力</button></div>
     <div class="inventory" data-group="tool"><h3 id="inventoryTitle">道具</h3><div id="inventory"></div><p class="propnote" id="toolTip">选择道具后，在虚线区域点击、长按或拖动。</p></div>
     <div class="group"><button id="signature" class="gold">专属技能（演示能量已满）</button><button id="jolt" class="action">顾客突然乱动</button><button id="reset">重置数值</button></div>
+    <p id="feedback" class="propnote" role="status" aria-live="polite">在虚线热区点击或拖动。若道具不适用当前场景，点击它会显示原因。</p>
   </div></section>
   <aside class="card side"><h2>双角色事件与数值</h2><div id="metrics"></div><div class="phase" id="phase">观察 · 寻找接触点</div><ol class="log" id="log"></ol><div class="warning">本样机调用现有规则引擎，数值为真实规则返回值；为便于动作验收，技师、道具、能量与关卡均在独立验证局重置，不写入游戏存档。<br><br>视觉验收状态：<strong>未通过</strong>。当前人物是可分层、可换装的 SVG 占位绑定，尚缺正式原画分层、补绘、表情组件、绑定和中间帧。</div></aside>
   <section class="card boards"><h2>静态关键姿势参考</h2><p>这三张图用于导演审批动作与节拍；图片本身不是可绑骨骼、连续动画或正式角色素材。</p><div class="boardgrid"><figure><img src="../docs/animation/storyboards/ale_back_six_poses.png" alt="阿烈开背六姿势分镜"><figcaption>阿烈｜开背 P0–P5</figcaption></figure><figure><img src="../docs/animation/storyboards/aunt_feet_six_poses.png" alt="芬姨足疗六姿势分镜"><figcaption>芬姨｜足疗 P0–P5</figcaption></figure><figure><img src="../docs/animation/storyboards/bao_skill_timing_provisional.png" alt="包师傅技能节拍临时参考"><figcaption>包师傅｜技能节拍临时稿（袜套练习模型；不作为正式足疗画面签核）</figcaption></figure></div></section>

diff --git a/massage_mayhem_engine/item-catalog.js b/massage_mayhem_engine/item-catalog.js
@@ -26,7 +26,12 @@ export const items = [
 export const itemById = Object.fromEntries(items.map(item => [item.id, item]));
 export const castInventory = {
   charming_m: ['towel','oil','cake'],
+  charming_f: ['towel','oil','massage_cream','cake','milk_tea','feather'],
+  uncle: ['towel','oil','hot_stone','guasha','hammer','scrub'],
   aunt: ['towel','oil','cake','basin','milk_tea'],
+  gentle: ['towel','oil','massage_cream','hot_stone','guasha','footcare'],
+  power: ['towel','oil','hammer','basin','scrub','footcare'],
+  joker: ['towel','oil','slipper','glow_slipper','banana','feather','cake'],
   bao_master: items.map(item => item.id)
 };
 export const playableFor = (cast, scene) => items.filter(item => castInventory[cast]?.includes(item.id) && item.scenes.includes(scene));

diff --git a/massage_mayhem_engine/play-bundle.js b/massage_mayhem_engine/play-bundle.js
@@ -453,7 +453,12 @@ const items = [
 const itemById = Object.fromEntries(items.map(item => [item.id, item]));
 const castInventory = {
   charming_m: ['towel','oil','cake'],
+  charming_f: ['towel','oil','massage_cream','cake','milk_tea','feather'],
+  uncle: ['towel','oil','hot_stone','guasha','hammer','scrub'],
   aunt: ['towel','oil','cake','basin','milk_tea'],
+  gentle: ['towel','oil','massage_cream','hot_stone','guasha','footcare'],
+  power: ['towel','oil','hammer','basin','scrub','footcare'],
+  joker: ['towel','oil','slipper','glow_slipper','banana','feather','cake'],
   bao_master: items.map(item => item.id)
 };
 const playableFor = (cast, scene) => items.filter(item => castInventory[cast]?.includes(item.id) && item.scenes.includes(scene));

diff --git a/animation-experience/interaction.js b/animation-experience/interaction.js
@@ -80,7 +80,7 @@ export class InteractionDirector {
   }
   pointerCancel() { if (this.phase !== 'observe') this.interrupt('pointer-cancel'); }
   interrupt(reason = 'guest-jolt') {
-    if (this.phase === 'observe' || this.phase === 'interrupted' || this.phase === 'recover') return false;
+    if (this.phase === 'interrupted' || this.phase === 'recover') return false;
     const hadContact = this.contactActive, duration = this.holdTime;
     this.pointerActive = false; this.releaseRequested = false;
     if (hadContact) { this.contactActive = false; this.emit('contactEnd', { reason }); }

diff --git a/animation-experience/README.md b/animation-experience/README.md
@@ -1,4 +1,4 @@
-# 动画体验导演样机｜第一批
+# 动画体验导演样机｜八名技师交互入口
 
 入口：[index.html](index.html)。页面使用预生成的 `animation-bundle.js`，可在普通 Chrome 中直接双击本地文件打开，无需本地服务或额外浏览器开关。修改源文件后，在仓库根目录运行 `node build-standalone.cjs` 重新生成脚本。这是独立导演验证局，不写入正式游戏存档。
 
@@ -6,9 +6,9 @@
 
 1. 入场短步结束后，在虚线热区点击：准备 → 接触前 → 接触 → 顾客响应 → 收手，只结算一次。
 2. 按住并在热区拖动：左右手 IK 跟随，躯干补位；顾客身体和脸在接触时响应。松开立即停止持续反馈，随后收手。
-3. 选择道具：包师傅有前期美术清单的完整 19 件，另补用户压腿参考图中的按摩霜，共 20 件；芬姨有 5 件，阿烈有 3 件。选中后先拿取、握持，再到虚线热区操作，最后归位；想提前放回可按“徒手”。足疗专用道具需切到足疗，开背专用道具需切到开背。食品的虚线热区会移动到顾客面前。
+3. 选择道具：八名技师均有各自的试制道具箱；包师傅有前期美术清单的完整 19 件，另补用户压腿参考图中的按摩霜，共 20 件。选中后先拿取、握持，再到虚线热区操作，最后归位；想提前放回可按“徒手”。足疗专用道具需切到足疗，开背专用道具需切到开背。不可用道具仍可点击查看原因。食品的虚线热区会移动到顾客面前。
 4. 点击“顾客突然乱动”或按 `G`：接触前取消结算，接触后撤手与顾客惊讶同步；拖出热区外围也会打断。
-5. 专属技能：阿烈飞吻、芬姨递食物、包师傅仅在足疗使用黄金右手。能量预设为 100 只为导演测试；命中时分别调用现有 `useSkill` 或 `performService`，右侧为真实规则返回值。
+5. 专属技能：八名技师均可触发技能事件与规则结算；包师傅仅在足疗使用黄金右手。能量预设为 100 只为导演测试；芬姨递美食使用 `performService`，其他技师使用 `useSkill`。技能按钮会说明场景、能量或动作阶段限制。
 
 ## 架构与边界
 
@@ -20,6 +20,6 @@
 - [main.js](main.js)：浏览器输入映射、事件日志、既有规则引擎适配和 HUD。
 - [interaction.test.mjs](interaction.test.mjs) 验证点击、长按拖动、入场、中断、道具与包师傅技能。`browser-smoke.cjs` 在 Chrome 测试实际页面、角色切换、热区边缘接触点、规则数值与手机宽度；运行需本机安装 Playwright，必要时通过 `CHROME_PATH` 指定 Chrome。
 
-当前三人有不同体型、发型、服装、入场步频、双手长度和专属动作方向，但动画仍以程序姿势插值为主。20 件道具已逐件接入选择→拿取→接触→规则结算→归位链路，并在动画样机与原可玩关卡共用使用次数、冷却、花费和数值修正；基础偏好仍按 `gentle / strong / food / prank` 服务组判定。正式美术审批需要先完成 [素材生产与排期验收计划](../docs/animation/04_素材生产与排期验收.md) 所列三视图、遮挡补绘、表情组件、握持手形、逐姿势修形与绑定，再逐条审核走路脚滑、转身、工具端接触、顾客各场景坐卧姿势以及喜剧节奏。当前样机只证明交互事件因果与可替换分层接口，**不构成视觉与整体动画体验验收通过**。
+当前八人均可选择、按摩、拿道具、受打断及使用技能；每人有独立的试制体型、发型、衣装配色和道具库存。阿烈、芬姨和包师傅有第一批较完整的动作验证；其余五人的专属动作目前仍共用阶段节拍，只接入了角色参数和技能规则，**未完成各自的专属表演或正式美术**。20 件道具已逐件接入选择→拿取→接触→规则结算→归位链路，并在动画样机与原可玩关卡共用使用次数、冷却、花费和数值修正；基础偏好仍按 `gentle / strong / food / prank` 服务组判定。正式美术审批需要先完成 [素材生产与排期验收计划](../docs/animation/04_素材生产与排期验收.md) 所列三视图、遮挡补绘、表情组件、握持手形、逐姿势修形与绑定，再逐条审核走路脚滑、转身、工具端接触、顾客各场景坐卧姿势以及喜剧节奏。当前样机只证明交互事件因果与可替换分层接口，**不构成视觉与整体动画体验验收通过**。
 
-整批 8 名技师、7 类顾客、3 场景的规划见 `docs/animation/`；其余 5 名技师和 6 类顾客等待第一批导演审批后制作。
+整批 8 名技师、7 类顾客、3 场景的规划见 `docs/animation/`；其余 5 名技师的正式专属表演与 6 类顾客的正式资产仍等待第一批导演审批后制作。
